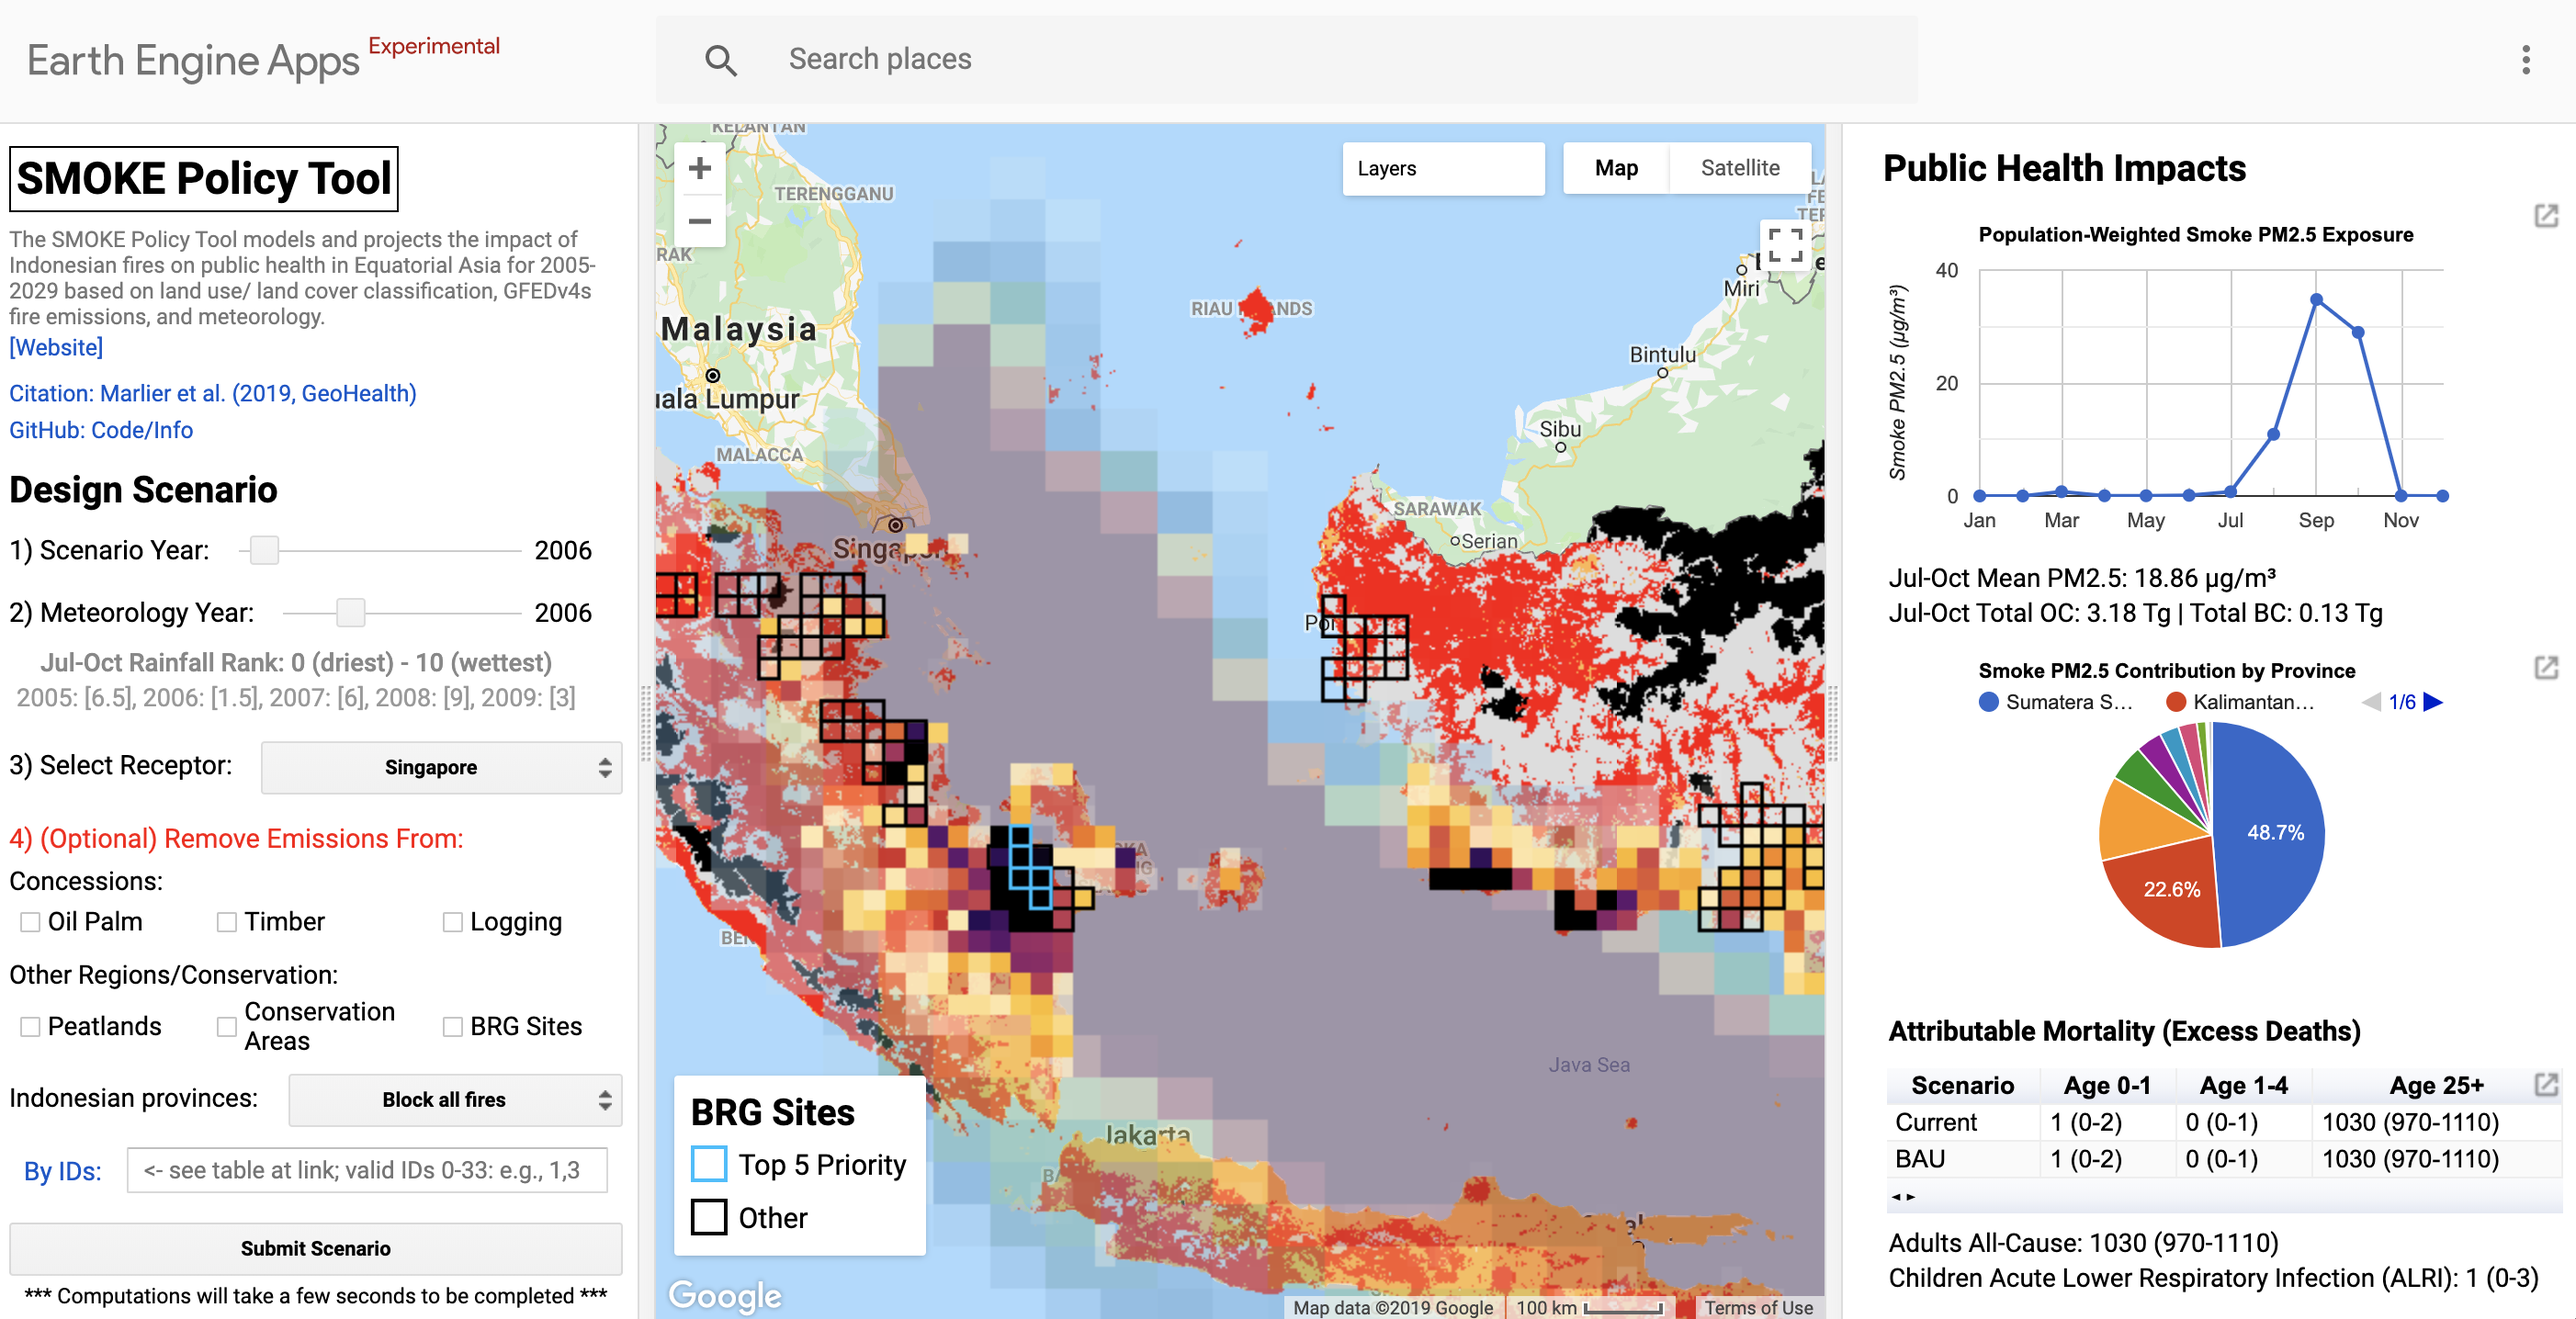
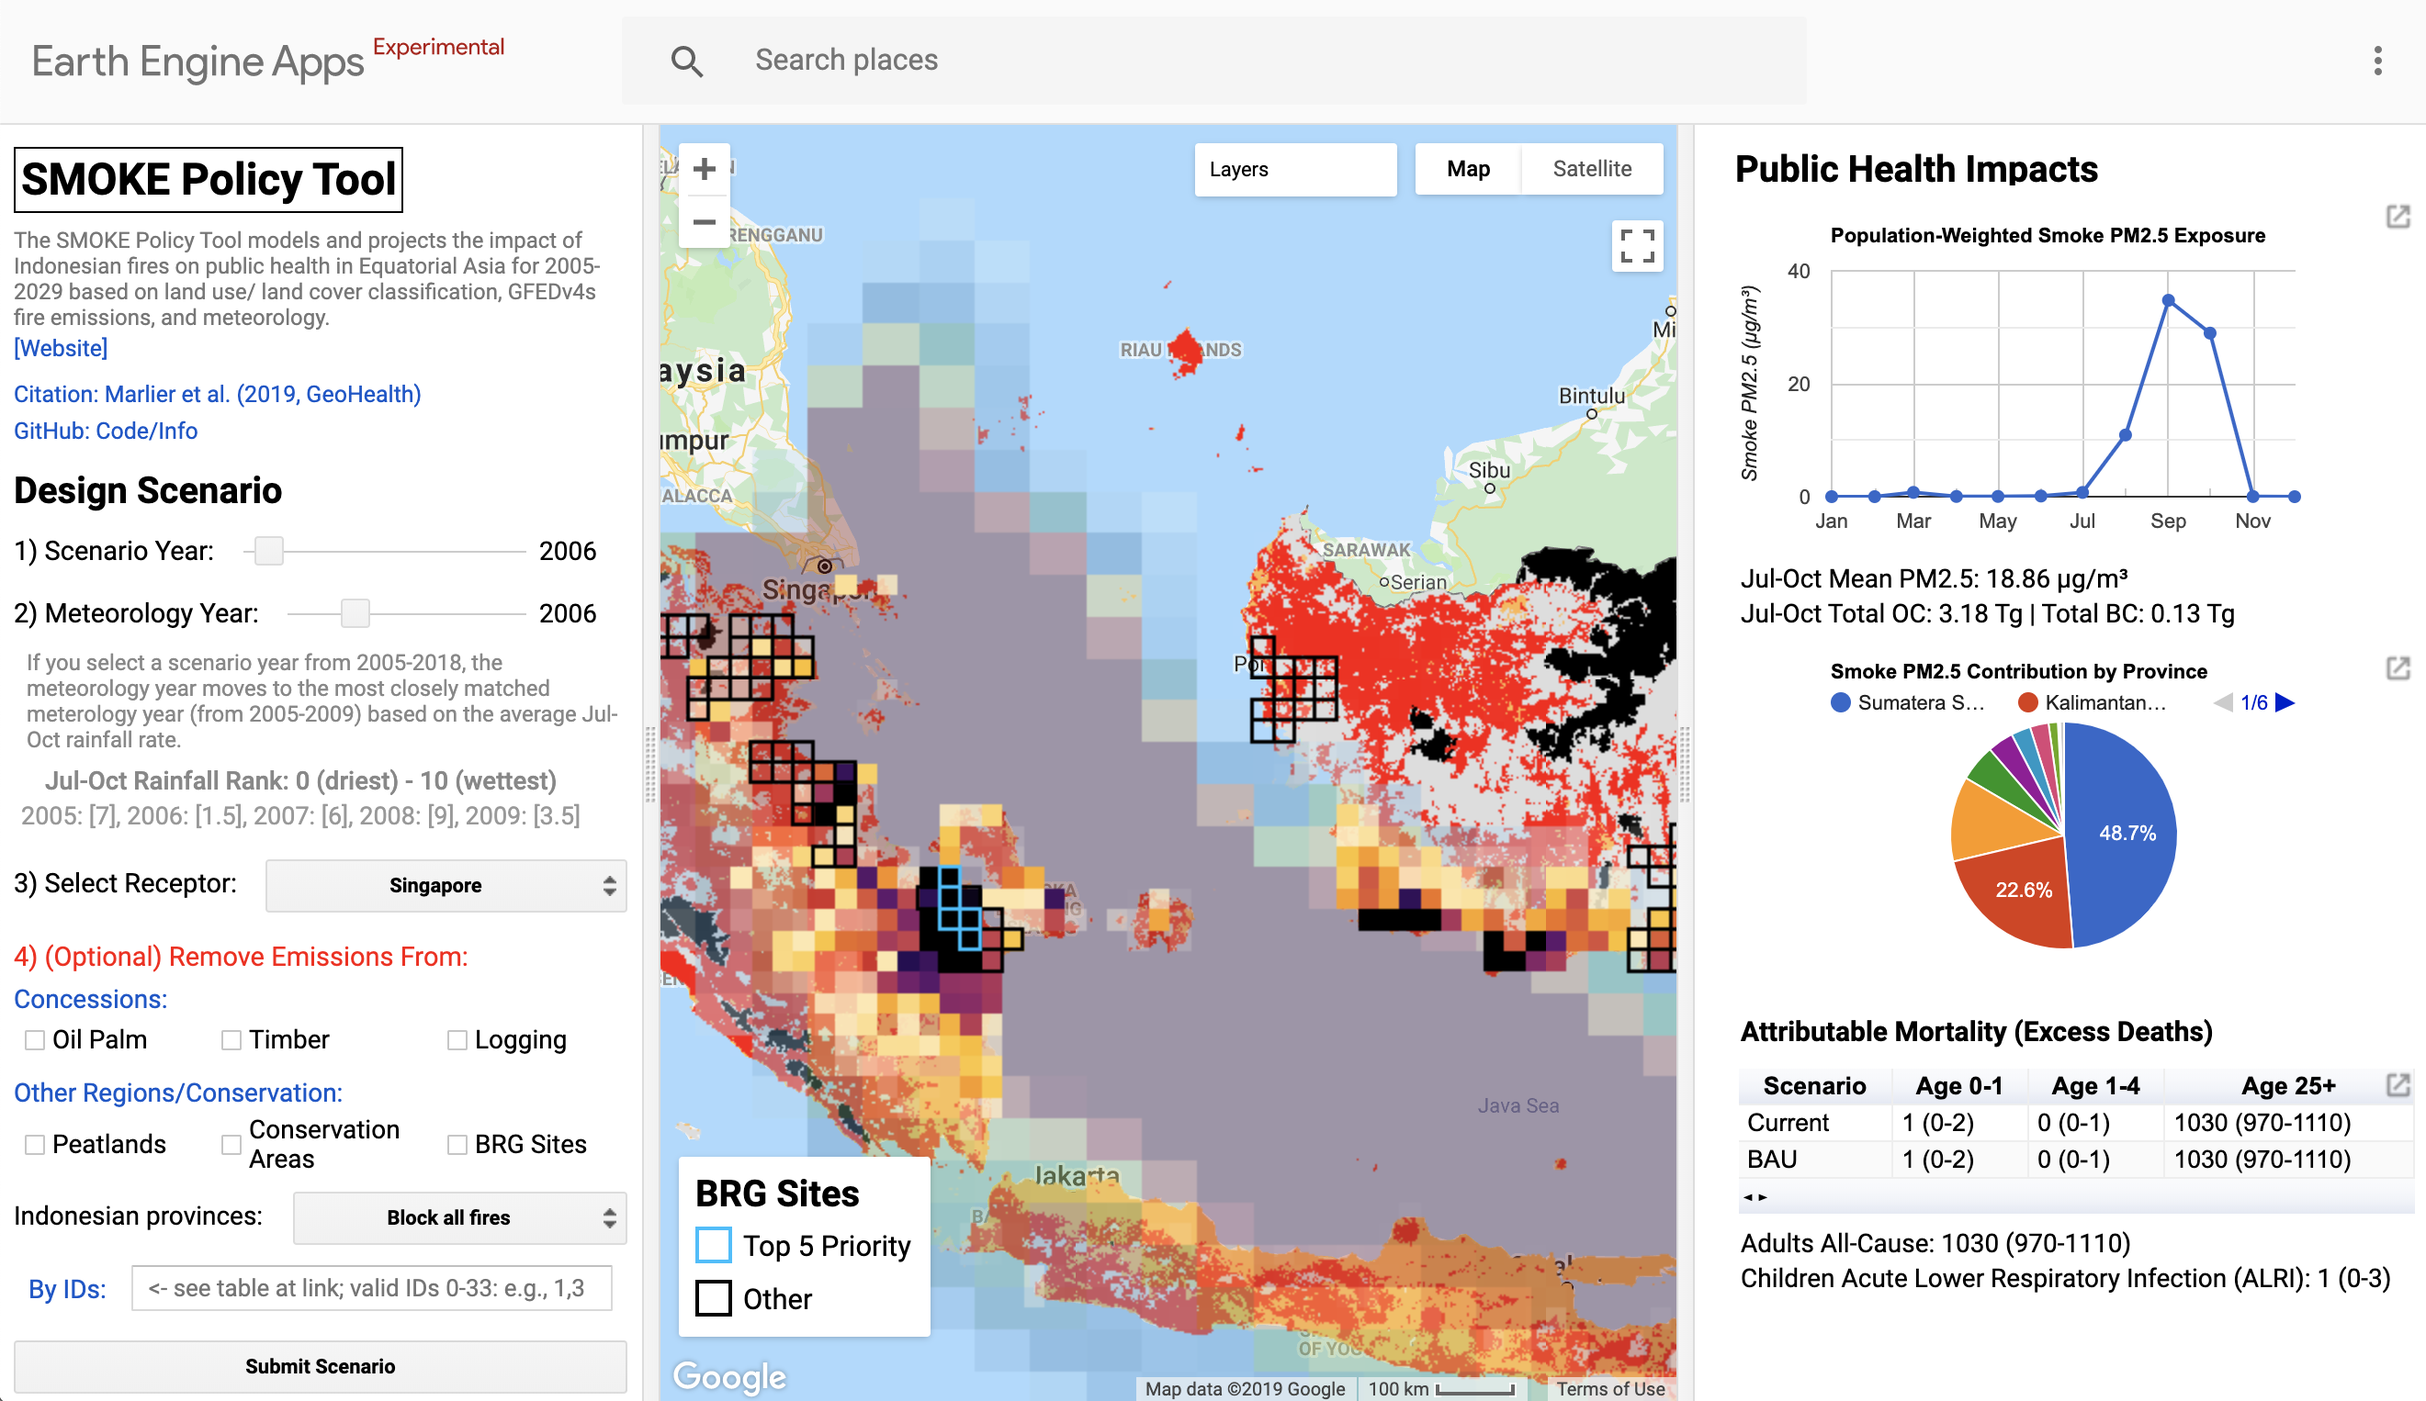
update rainfall ranks, add link to lulc app in smoke policy tool

diff --git a/gee_public/Modules/plotParams.js b/gee_public/Modules/plotParams.js
@@ -23,13 +23,19 @@ exports.yearPanel = function() {
   var inputYearSlider = ui.Slider({min: 2005, max: 2029, value: 2006, step: 1});
   inputYearSlider.style().set('stretch', 'horizontal');
   
+  inputYearSlider.onChange(function(slideYear) {
+    return metYearSlider.setValue(smokePM.closestMetYear[slideYear]);
+  });
+  
   var metYearLabel = ui.Label('2) Meteorology Year:', {fontSize: '14.5px'});
   var metYearSlider = ui.Slider({min: 2005, max: 2009, value: 2006, step: 1});
   metYearSlider.style().set('stretch', 'horizontal');
   
+  var metYearMessage = ui.Label('If you select a scenario year from 2005-2018, the meteorology year moves to the most closely matched meterology year (from 2005-2009) based on the average Jul-Oct rainfall rate.',
+    {margin: '2px 8px 6px 15px', color: '#888', fontSize: '12px'});
   var metYearDescription = ui.Label('Jul-Oct Rainfall Rank: 0 (driest) - 10 (wettest)',
     {margin: '1px 0px 0px 25px', color: '#888', fontSize: '13.8px', fontWeight:'410'});
-  var metYearRanking = ui.Label('2005: [6.5], 2006: [1.5], 2007: [6], 2008: [9], 2009: [3]',
+  var metYearRanking = ui.Label('2005: [7], 2006: [1.5], 2007: [6], 2008: [9], 2009: [3.5]',
     {margin: '3px 0px 8px 12px', color: '#999', fontSize: '13.5px'});
     
   return ui.Panel([
@@ -38,7 +44,7 @@ exports.yearPanel = function() {
         ui.Panel.Layout.Flow('vertical'), {stretch: 'horizontal'}),
       inputYearSectionLabel, ui.Panel([inputYearLabel, inputYearSlider], ui.Panel.Layout.Flow('horizontal'), {stretch: 'horizontal'}),
       ui.Panel([metYearLabel, metYearSlider], ui.Panel.Layout.Flow('horizontal'), {stretch: 'horizontal'}),
-      metYearDescription, metYearRanking
+      metYearMessage, metYearDescription, metYearRanking
     ]);
 };
 
@@ -69,7 +75,9 @@ exports.getReceptor = function(receptorSelectPanel) {
 exports.csn_csvPanel = function(csn_csvBox, controlPanel) {
   controlPanel.add(ui.Label('4) (Optional) Remove Emissions From:', {fontWeight: 400, color: 'red', fontSize: '14.5px'}));
   
-  controlPanel.add(ui.Label('Concessions:', {margin: '-2px 0px -2px 8px', stretch: 'horizontal'}));
+  controlPanel.add(ui.Label('Concessions:', {margin: '-2px 0px -2px 8px', stretch: 'horizontal'},
+    'https://smokepolicytool.users.earthengine.app/view/indonesia-lulc-maps'));
+    
   controlPanel.add(ui.Panel([
     ui.Panel([csn_csvBox[0]], null, {margin: '-2px -10px 2px 5px', stretch: 'horizontal'}),
     ui.Panel([csn_csvBox[1]], null, {margin: '-2px -10px -2px 2px', stretch: 'horizontal'}),
@@ -77,7 +85,9 @@ exports.csn_csvPanel = function(csn_csvBox, controlPanel) {
   ],
   ui.Panel.Layout.Flow('horizontal'), {margin: '2px 0px 4px 0px', stretch: 'horizontal'}));
   
-  controlPanel.add(ui.Label('Other Regions/Conservation:', {margin: '-1px 0px 4px 8px', stretch: 'horizontal'}));
+  controlPanel.add(ui.Label('Other Regions/Conservation:', {margin: '-1px 0px 4px 8px', stretch: 'horizontal'},
+    'https://smokepolicytool.users.earthengine.app/view/indonesia-lulc-maps'));
+
   controlPanel.add(ui.Panel([
     ui.Panel([csn_csvBox[3]], null, {margin: '-2px -10px -2px 5px', stretch: 'horizontal'}),
     ui.Panel([csn_csvBox[4]], null, {margin: '-10px -10px -2px 2px', stretch: 'horizontal'}),

diff --git a/gee_public/Modules/smokePM.js b/gee_public/Modules/smokePM.js
@@ -346,3 +346,39 @@ exports.getEmissTotal = function(inputYear,metYear,inSpecies,inMask) {
   return ee.Number(ee.FeatureCollection(emissPartTotal)
     .aggregate_sum('sum')).format('%.2f');
 };
+
+// Assign default adjoint year based on rainfall
+exports.closestMetYear = {
+  1987: 2006,
+  1988: 2008,
+  1989: 2008,
+  1990: 2009,
+  1991: 2006,
+  1992: 2009,
+  1993: 2006,
+  1994: 2006,
+  1995: 2007,
+  1996: 2008,
+  1997: 2006,
+  1998: 2008,
+  1999: 2005,
+  2000: 2007,
+  2001: 2009,
+  2002: 2006,
+  2003: 2007,
+  2004: 2006,
+  2005: 2005,
+  2006: 2006,
+  2007: 2007,
+  2008: 2008,
+  2009: 2009,
+  2010: 2008,
+  2011: 2009,
+  2012: 2007,
+  2013: 2005,
+  2014: 2009,
+  2015: 2006,
+  2016: 2008,
+  2017: 2008,
+  2018: 2009
+};

diff --git a/gee_public/UI_SMOKEPolicyTool.js b/gee_public/UI_SMOKEPolicyTool.js
@@ -6,7 +6,7 @@
 /*
 // Documentation: https://github.com/tianjialiu/SMOKE-Policy-Tool
 // Author: Tianjia Liu
-// Last updated: September 22, 2019
+// Last updated: September 25, 2019
 
 // Purpose: model and project the impact of Indonesian fires
 // on public health in Equatorial Asia for 2005-2029 based on

diff --git a/README.md b/README.md
@@ -7,7 +7,7 @@ The [SMOKE Policy Tool](https://smokepolicytool.users.earthengine.app/view/smoke
 
 ## Public Apps
 (*Earth Engine Apps, no Google Earth Engine account required*)
-1. [**SMOKE Policy Tool UI**](https://smokepolicytool.users.earthengine.app/view/smoke-policy-tool): main tool for modeling and projecting the impact of Indonesian fires on public health in Equatorial Asia for 2005-2029 based on land use/ land cover (LULC) classification, Global Fire Emissions Database, version 4s ([GFEDv4s](https://www.globalfiredata.org/)) fire emissions, and meteorology
+1. [**SMOKE Policy Tool UI**](https://smokepolicytool.users.earthengine.app/view/smoke-policy-tool): main tool for modeling and projecting the impact of Indonesian fires on public health in Equatorial Asia for 2005-2029 based on land use and land cover (LULC) classification, Global Fire Emissions Database, version 4s ([GFEDv4s](https://www.globalfiredata.org/)) fire emissions, and meteorology
 <br><br>
 ![banner image](https://github.com/tianjialiu/SMOKE-Policy-Tool/blob/master/docs/imgs/SMOKEPolicyTool_EEApps.png)
 
@@ -19,13 +19,13 @@ The [SMOKE Policy Tool](https://smokepolicytool.users.earthengine.app/view/smoke
 *Select a year from 2005-2029.* The scenario year is linked to projections of LULC transitions in 5-year intervals; for example, all scenarios using any input year from 2005-2009 involve the same LULC transitions. Because we use 2005 and 2010 as the base LULC timesteps of the 2005-2009 LULC transitions, we consider 2005-2009 as "present" and 2010-2029 as "future."
 
 ### Step 2: Meteorology Year
-*Select a meteorology year from 2005-2009.* The rainfall ranks (0 = driest, 10 = wettest), which should guide your selection, are derived from mean [CHIRPS](http://chg.geog.ucsb.edu/data/chirps/) daily precipitation rates over Sumatra and Kalimantan during the fire season (July-October), from 1981-2017. Dry years, such as 2006 (strong El Niño year), are generally associated with more intense fire activity and haze. If the scenario year is from 2005-2009, the meteorology year should match the scenario year.
+*Select a meteorology year from 2005-2009.* The rainfall ranks (0 = driest, 10 = wettest), which should guide your selection, are derived from mean [CHIRPS](http://chg.geog.ucsb.edu/data/chirps/) daily precipitation rates over Sumatra and Kalimantan during the fire season (July-October), from 1981-2018. Dry years, such as 2006 (strong El Niño year), are generally associated with more intense fire activity and haze. If the scenario year is from 2005-2009, the meteorology year should match the scenario year.
 
 ### Step 3: Receptor
 *Select a population-weighted receptor: Indonesia, Singapore, or Malaysia.* A receptor is a location of interest that may be sensitive to pollutants upwind. In this case, the tool estimates and projects the public health impacts in Indonesia, Singapore, or Malaysia based on its respective sensitivity to upwind smoke from fires in Indonesia.
 
 ### Step 4. (Optional) Build a custom scenario by blocking fire emissions in select regions
-In custom scenarios, fire activity can be blocked in a combination of concessions (Oil Palm, Timber, Logging), other regions/ conservation areas (Peatlands, Conservation Areas, and BRG Sites), and Indonesia provinces. Badan Restorasi Gambu (BRG) sites were recently established following the 2015 severe haze event to restore the hydrology of damaged peatlands in Sumatra, Kalimantan, and Papua over a five-year period (https://brg.go.id). Indonesia provinces must be selected by IDs; as an example, to select Aceh and Riau, write in the widget: 0,24. The default option for Indonesian provinces is 'Block all fires', but another option available is 'Target conservation efforts'. In the 'Target conservation efforts' mode, if a concession is selected with a province, fire emissions are only reduced in areas co-located with that concession within that province.
+In custom scenarios, fire activity can be blocked in a combination of concessions (Oil Palm, Timber, Logging), other regions/ conservation areas (Peatlands, Conservation Areas, and BRG Sites), and Indonesia provinces. Badan Restorasi Gambut (BRG) sites were recently established following the 2015 severe haze event to restore the hydrology of damaged peatlands in Sumatra, Kalimantan, and Papua over a five-year period (https://brg.go.id). Indonesia provinces must be selected by IDs; as an example, to select Aceh and Riau, write in the widget: 0,24. The default option for Indonesian provinces is 'Block all fires', but another option available is 'Target conservation efforts'. In the 'Target conservation efforts' mode, if a concession is selected with a province, fire emissions are only reduced in areas co-located with that concession within that province.
 
 ### Indonesia Provinces by IDs
 | ID | Sumatera | ID | Kalimantan | ID | Rest of Indonesia |
